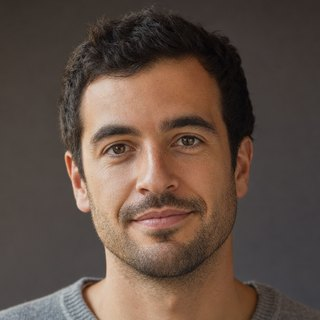
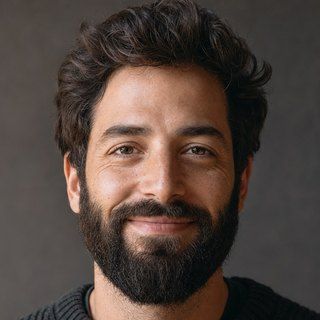
Warmer portrait, and make it a circle
New avatar: bearded, genuinely smiling, in a charcoal knit that dissolves
into the canvas so the face is what reads at 40px. Cropped tight — a
circular frame clips the corners, so the head has to sit larger in the
square than it would behind a rounded rectangle.

The chip and the favicon are both fully round now. The circle is the only
round thing on the site and the only photograph, which design.md records
as a deliberate exception to the 8px radius everywhere else.

Also corrects design.md's icon line, which still described the `h-lh`
alignment that was removed for putting the arrow on the baseline.

diff --git a/files/resources/views/components/nav.blade.php b/files/resources/views/components/nav.blade.php
@@ -8,7 +8,7 @@
 <header id="top" class="flex flex-wrap items-center justify-between gap-x-4 gap-y-4">
 
     <a href="/" aria-label="Homepage" class="shrink-0">
-        <img src="{{ $avatar }}" alt="{{ $avatarAlt }}" width="80" height="80" class="size-11 rounded-lg object-cover sm:size-10 outline-1 -outline-offset-1 outline-line hover:outline-faint">
+        <img src="{{ $avatar }}" alt="{{ $avatarAlt }}" width="80" height="80" class="size-11 rounded-full object-cover sm:size-10 outline-1 -outline-offset-1 outline-line hover:outline-faint">
     </a>
 
     <nav data-glide class="-mx-2 flex flex-wrap items-center" aria-label="Main">

diff --git a/files/resources/design.md b/files/resources/design.md
@@ -65,7 +65,10 @@ Sections are `mt-20 sm:mt-24` apart; the first section after the header is
 Rows are `px-3 py-2.5` (ledger) or `px-3 py-4` (rows with a description), on a
 `-mx-3` track so the text still aligns with the column edge. Radius is `8px`
 (`rounded-lg`) on the glide block, rows, inputs and buttons; `12px` and above
-belongs to a different template.
+belongs to a different template. The one exception is the portrait, which is a
+full circle — it is the only round thing on the site and the only photograph,
+and those two facts belong together. The favicon is the same portrait, masked
+to the same circle.
 
 No shadows anywhere. Depth is a hairline or nothing.
 
@@ -80,8 +83,10 @@ No shadows anywhere. Depth is a hairline or nothing.
   keeping.
 - **Rows link, cards do not exist.** There is not a single card in this
   template. If something needs separating, use whitespace, then a hairline.
-- **Icons are Heroicons micro (16px)** at `size-4 h-lh shrink-0`, filled with
-  `fill-faint` and lifting to `fill-accent` inside a hovered row. The only two
+- **Icons are Heroicons micro (16px)** at `size-4 shrink-0`, filled with
+  `fill-faint` and lifting to `fill-accent` inside a hovered row, in an
+  `inline-flex items-center gap-x-1` group. Never `h-lh` — it puts the icon's
+  bottom on the text baseline and the arrow reads as superscript. The only two
   in the template are arrow-up-right and arrow-left.
 
 ## Motion
